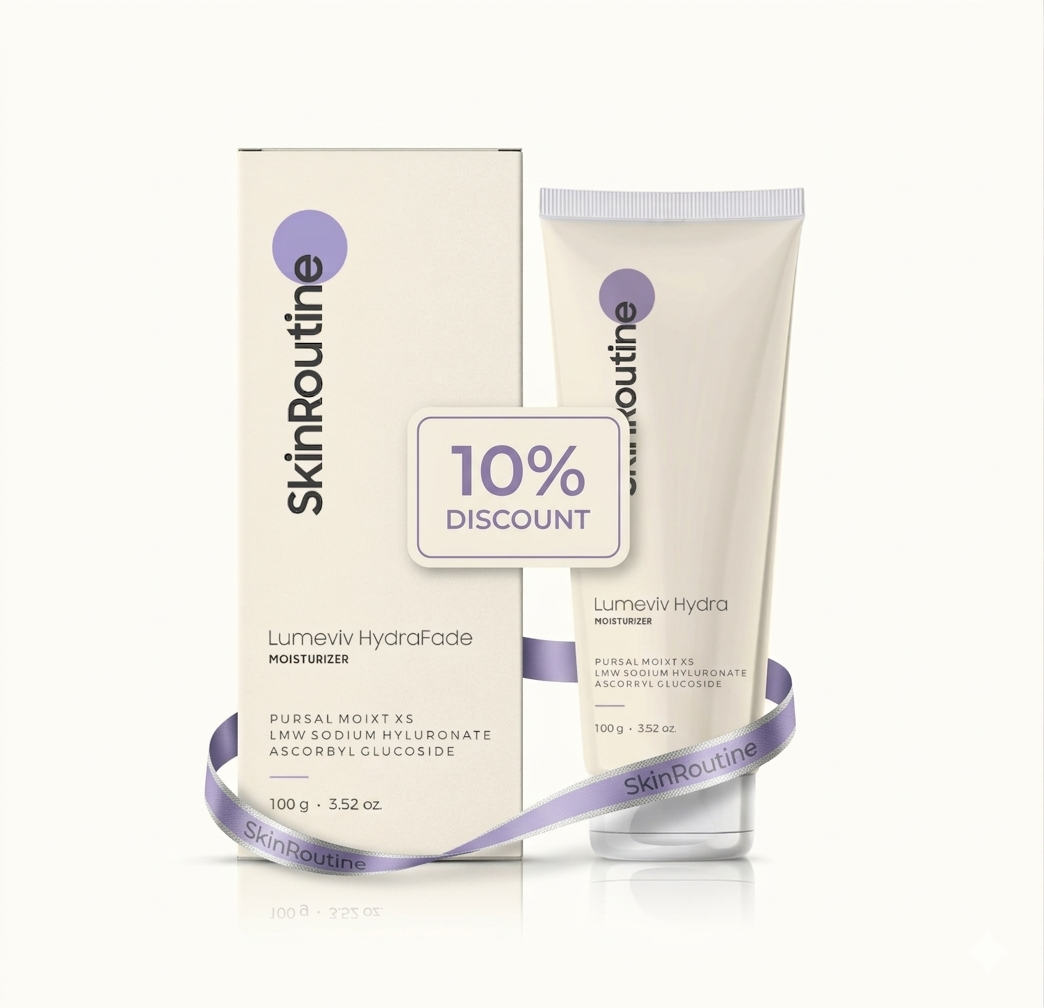
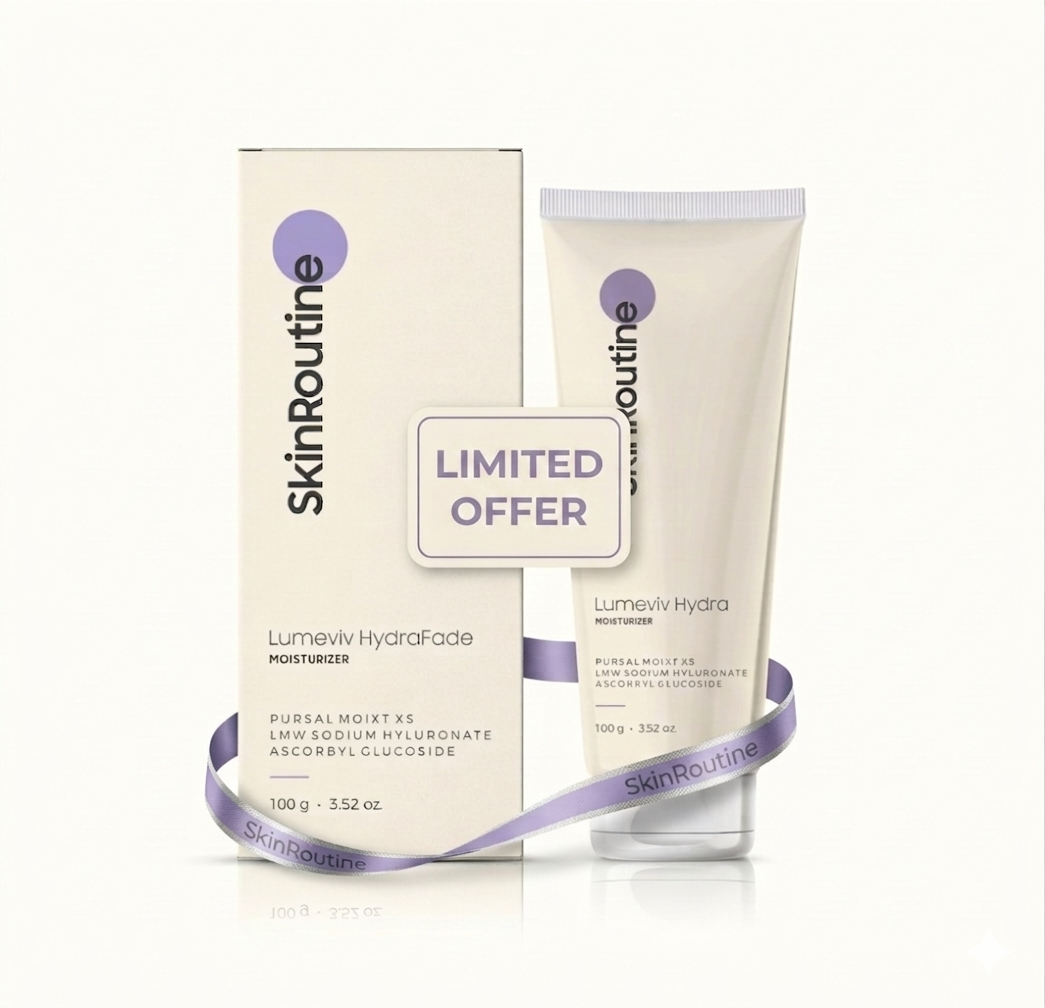
pending work apr 20 10:07 AM

diff --git a/components/Layout/Pages/HomePage/PremiumOffers/PremiumOffers.jsx b/components/Layout/Pages/HomePage/PremiumOffers/PremiumOffers.jsx
@@ -10,25 +10,25 @@ const offers = [
     {
         id: 1,
         title: "The Skincare Edit",
-        desc: "Flat 10% Off on Cleansers & Moisturizers",
-        img: "/images/homepage/offer-section/offer-1.jpg",
+        desc: "Limited-Time Selection of Cleansers & Moisturizers",
+        img: "/images/homepage/offer-section/offer-1.png",
     },
     {
         id: 2,
         title: "Glow Essentials",
-        desc: "flat NPR.300 Off on creams & Face washes",
-        img: "/images/homepage/offer-section/offer-2.jpg",
+        desc: "Handpicked Daily Care Essentials — Limited Stock",
+        img: "/images/homepage/offer-section/offer-2.png",
     },
     {
         id: 3,
         title: "Hydration Ritual",
-        desc: "Flat NPR.200 Off on Orders Above NPR.1999",
+        desc: "Curated Hydration Range for Your Daily Routine",
         img: "/images/homepage/offer-section/offer-3.png",
     },
     {
         id: 4,
         title: "Derm Care Picks",
-        desc: "Up to 30% Off on Dermatologist-Approved Brands",
+        desc: "Expert-Approved Skincare — Limited Availability",
         img: "/images/homepage/offer-section/offer-4.jpg",
     },
 ];
